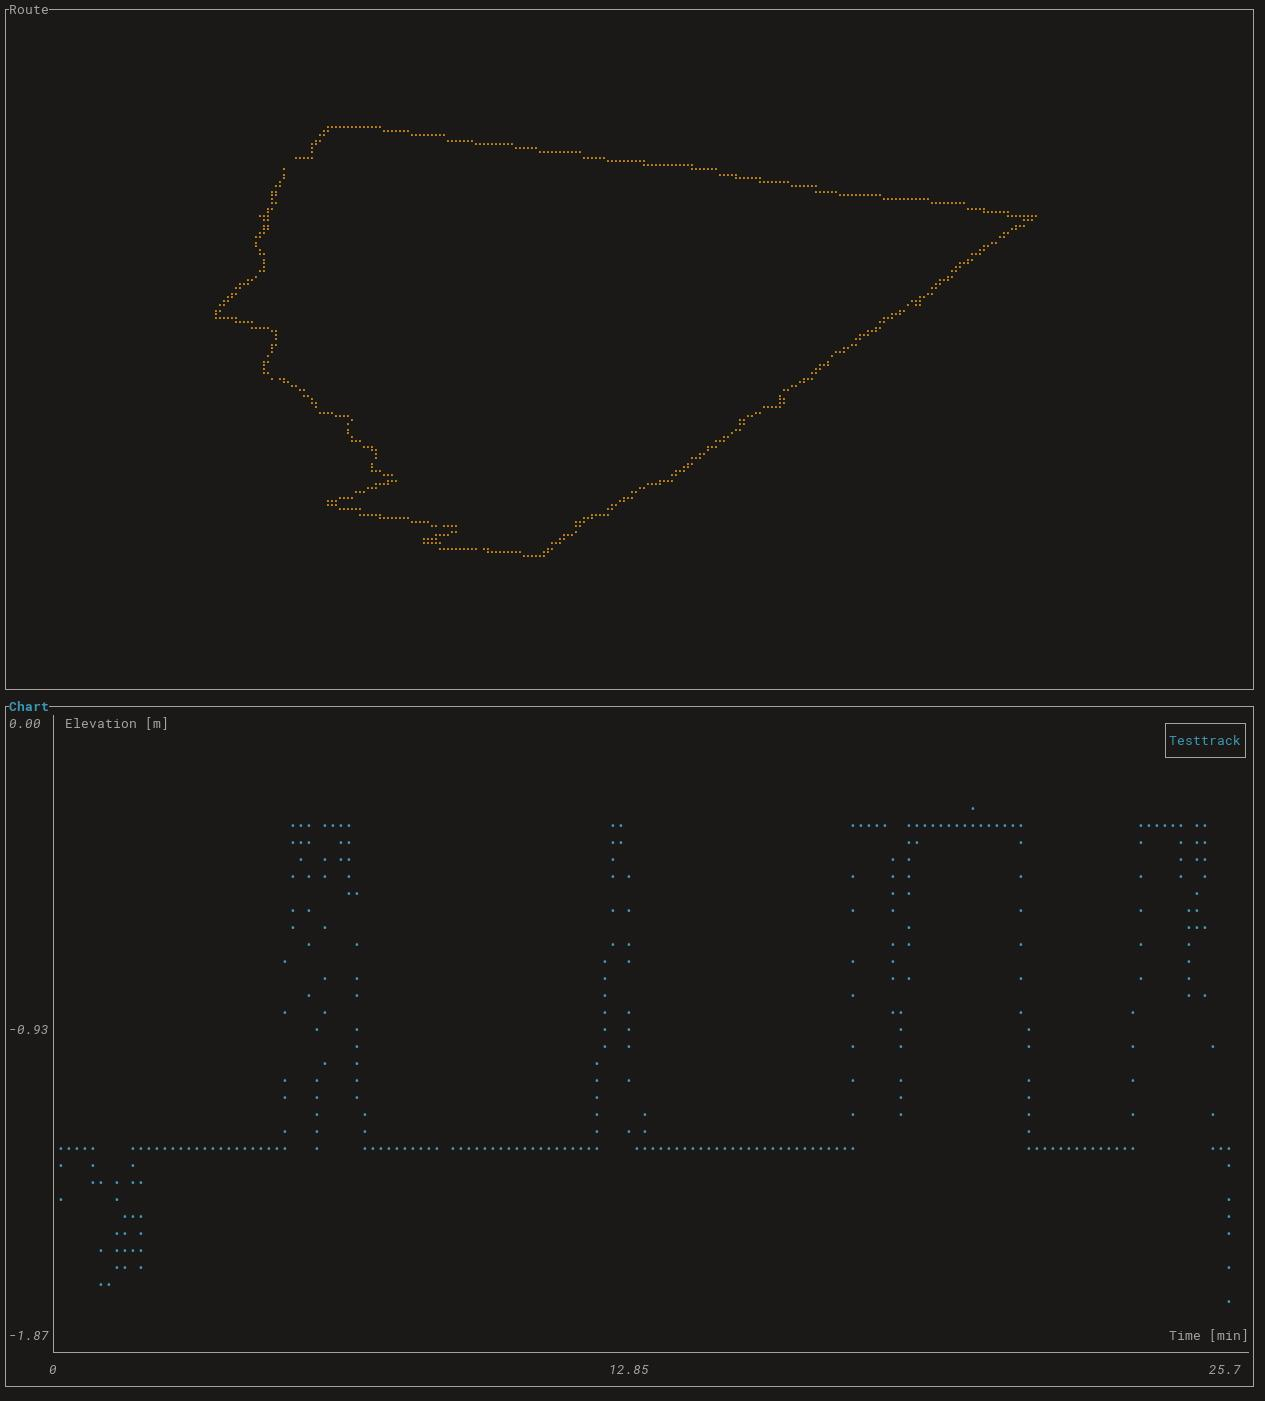
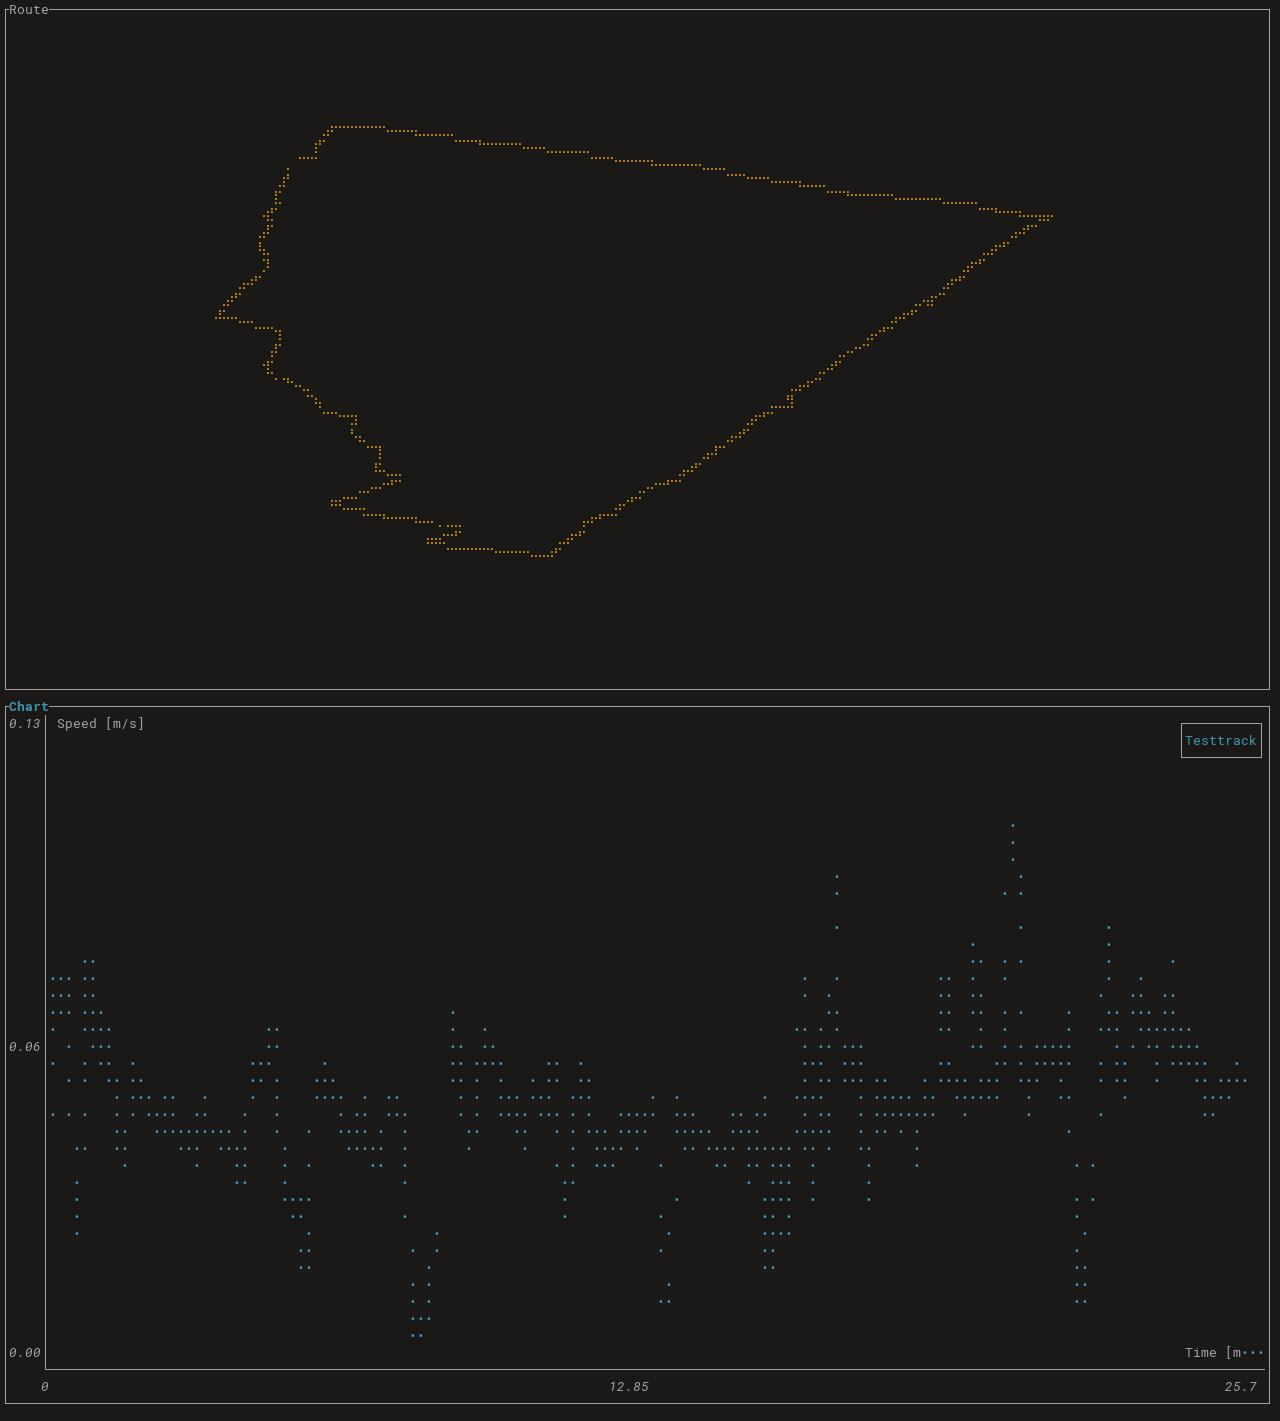
Update README and demo screenshot

diff --git a/README.md b/README.md
@@ -3,14 +3,17 @@ fitr
 
 ![fitr output](/assets/demo.jpg)
 
-fitr is a GPX track analysis program with a command line interface written in rust.
+fitr is a GPX-file track analysis program with a command line interface written in rust.
 
 ## Work in progress
 
-This is currently a placeholder of work in progress associated with the project. Technically
-it means this program doesn't do anything! Well technically it loads a GPX file (not packaged here)
-and plots for one track segment the Elevation versus the Time spent as for instance useful for a
-runners analysis.
+This project is pretty much a work in progress. Features that are covered so far:
+
+ - show 2D representation of a GPS track (see screenshot) in the terminal
+ - calculate speed profile of GPS track points and plot it in the terminal
+ - show elevation, longitude, lattitude profiles (not yet configurable but need to change code manually)
+
+The file used needs to be specified by the user as a command line argument (example file not packaged here).
 
 ## What should it be?
 
@@ -18,12 +21,14 @@ There are currently three goals for this program
 
 - make 2D representation of GPX tracks
 - let it be "playable" and show progress bar as well as location indicator
-- include all kinds of statistics: speed, elevation, distance etc.
+- include all kinds of statistics: speed, elevation, distance etc. that are on-the-fly switchable for the user
 
 ## Installation
 
 After cloning the github project and its used library [gpxalyzer](https://github.com/f-thiele/gpxalyzer) into
 the same directory a simple `cargo run` should pull further dependencies and run the TUI.
+
+First command line argument should be the gpx-data-path and `-h` shows the usage message.
 
 ## License
 This project is licensed under the terms of the GPL v3 or any later version (**GPL-3.0-or-later**).
